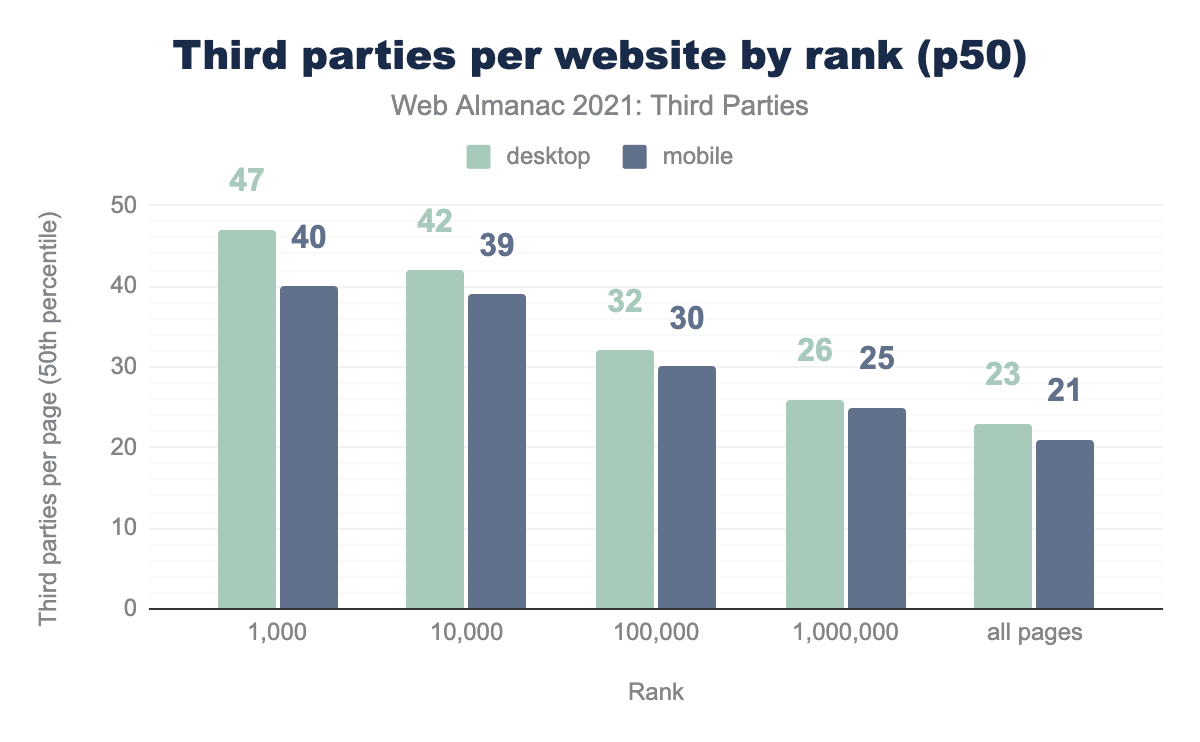
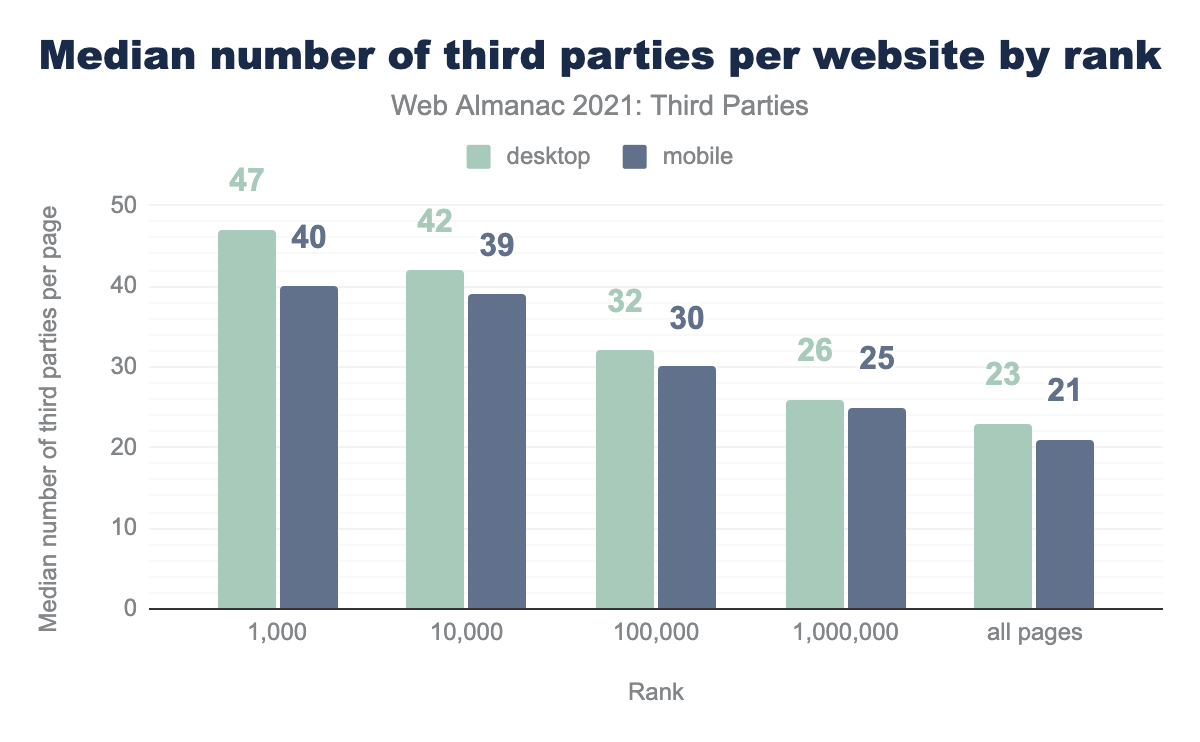
Review feedback from Patrick Hulce

Changed region(s): [[0.0308, 0.031, 0.9867, 0.124], [0.0308, 0.279, 0.0617, 0.8679]]

diff --git a/src/content/en/2021/third-parties.md b/src/content/en/2021/third-parties.md
@@ -3,7 +3,7 @@
 title: Third Parties
 description: TODO
 authors: [tunetheweb]
-reviewers: [patrickhulce, andydavies, csswizardry, housseindjirdeh]
+reviewers: [patrickhulce, csswizardry]
 analysts: [tunetheweb]
 editors: []
 translators: []
@@ -14,7 +14,7 @@ featured_quote: Third parties are integral to the web. In many ways they are the
 featured_stat_1: 94.40%
 featured_stat_label_1: Sites using third parties
 featured_stat_2: 1,625
-featured_stat_label_2: YouTube embed main thread blocking time
+featured_stat_label_2: YouTube embed main-thread blocking time
 featured_stat_3: 45.85%
 featured_stat_label_3: Requests which are 3rd party
 unedited: true
@@ -22,11 +22,11 @@ unedited: true
 
 ## Introduction
 
-Ah third parties - the solution to so many problems on the web… and cause of so many others! The web has fundamentally always been about interconnectivity and sharing. Using third-party content on a website is a natural extension of that and was first set into motion with the introduction of the [`<img>` element in HTML 2.0](https://www.w3.org/MarkUp/html-spec/html-spec_5.html#SEC5.10), we have been able to hyperlink external content straight into our documents. This has only grown with the introduction of [CSS](./css), and [JavaScript](./javascript) allowing part (or all!) of the page and site to be changed completely just by including a seemingly simple `<link>` or `<script>` element.
+Ah third parties - the solution to so many problems on the web… and cause of so many others! The web has fundamentally always been about interconnectivity and sharing. Using third-party content on a website is a natural extension of that and was first set into motion with the introduction of the [`<img>` element in HTML 2.0](https://www.w3.org/MarkUp/html-spec/html-spec_5.html#SEC5.10); we have been able to hyperlink external content straight into our documents ever since. This has only grown with the introduction of [CSS](./css), and [JavaScript](./javascript) allowing part (or all!) of the page and site to be changed completely just by including a seemingly simple `<link>` or `<script>` element.
 
 Third parties provide a never-ending collection of images, videos, fonts, tools, libraries, widgets, trackers, ads and anything else you can imagine to embed into our web pages. This enables even the most non-technical to be able to create and publish content to the web. Without third parties, the web would likely be a very boring, text-based, academic medium instead of the rich, immersive, complex platform that is so integral to the lives of many of us today.
 
-However, there is a dark side to using third party content on the web. An innocuous include of an image, or a helpful library, opens the floodgates of all sorts of [performance](./performance), [privacy](./performance), and [security](./security) implications that many do not consider fully. Speak to any professionals in those industries and they will lament the use of third-party content making their lives more difficult. This is surely only going to grow with performance getting extra attention through the likes of the [Core Web Vitals initiative from Google](https://web.dev/vitals/), and increased focus on privacy from governments and individuals alike, and the ever-present threat of exploitable vulnerabilities and malicious threats inherent to the web.
+However, there is a dark side to using third-party content on the web. An innocuous include of an image, or a helpful library, opens the floodgates of all sorts of [performance](./performance), [privacy](./performance), and [security](./security) implications that many do not consider fully. Speak to any professionals in those industries and they will lament the use of third-party content making their lives more difficult. Scrutiny is surely only going to grow with performance getting extra attention through the [Core Web Vitals initiative from Google](https://web.dev/vitals/), increased focus on privacy from governments and individuals, and the ever-increasing threat of exploitable vulnerabilities and malicious threats inherent to the web.
 
 In this chapter we're going to have a look at the state of third parties on the web: how much are we using them, what are we using them for, has our use changed over the last year given in particular the three concerns listed above? These are questions I'm looking to answer here.
 
@@ -53,7 +53,7 @@ Similarly, first-party content served from a third-party domain is counted as th
 
 ### Third-party categories
 
-This year we will, again, be drawing heavily on the [third-party-web repository](https://github.com/patrickhulce/third-party-web/blob/8afa2d8cadddec8f0db39e7d715c07e85fb0f8ec/data/entities.json5) from [Patrick Hulce](https://twitter.com/patrickhulce) to help us identify and categorize third parties. This repository categorizes commonly used third-party URLs into the following categories:
+This year we will, again, be drawing heavily on the [third-party-web repository](https://github.com/patrickhulce/third-party-web/blob/master/data/entities.js) from [Patrick Hulce](https://twitter.com/patrickhulce) to help us identify and categorize third parties. This repository categorizes commonly used third-party URLs into the following categories:
 - **Ad** - display and measurement of advertisements
 - **Analytics** - tracking site visitor behavior
 - **CDN** - providers that host public shared utilities or private content of their users
@@ -78,7 +78,7 @@ In reality this made very little difference to the numbers, but we feel it's a m
 - All data presented here is based on a non-interactive, cold load. These values could start to look quite different after user interaction.
 - The pages are tested from servers in the US with no cookies set, so third-parties requested after opt-in are not included. This will especially affect pages hosted and predominantly served to countries in scope for the [General Data Protection Regulation](https://en.wikipedia.org/wiki/General_Data_Protection_Regulation), or other similar legislation.
 - Only the home pages are tested. Other pages may have different third-party requirements.
-- Roughly 84% of all third-party domains by request volume have been identified and categorized. The remaining 16% fall into the _Other_ category.
+- Some of the lesser-used third-party domains are uncategorised into the _unknown_ category. As part of this analysis we submitted more categories for the top used domains to improve this data set.
 
 Learn more about our [methodology](./methodology).
 
@@ -109,7 +109,7 @@ chart_url="https://docs.google.com/spreadsheets/d/e/2PACX-1vTkT-CF5-NB7Oatd6XZq_
 
 Rerunning the last three Almanac years with the new, stricter definition, we see in the chart above that our usage of third parties on our website has grown slightly on last year by 0.2% on desktop and 0.4% on mobile.
 
-45.85% of requests on mobile and 45.09% of requests on desktop are third-party requests and this is similar to last year.
+45.85% of requests on mobile and 45.09% of requests on desktop are third-party requests, and this is similar to last year.
 
 {{ figure_markup(
   caption="Percentage of requests which are third-party.",
@@ -120,7 +120,7 @@ Rerunning the last three Almanac years with the new, stricter definition, we see
 )
 }}
 
-It would appear that the impact of privacy-preserving regulations like [GDPR](https://en.wikipedia.org/wiki/General_Data_Protection_Regulation) and [CCPA](https://en.wikipedia.org/wiki/California_Consumer_Privacy_Act) are not dampening our appetite for third-party usage. Though it should be remembered that our websites crawl from US locations and so may not be served GDPR-compliant websites.
+It would appear that the impact of privacy-preserving regulations like [GDPR](https://en.wikipedia.org/wiki/General_Data_Protection_Regulation) and [CCPA](https://en.wikipedia.org/wiki/California_Consumer_Privacy_Act) are not dampening our appetite for third-party usage. Though it should be remembered that our websites crawl from US data centers and so may be served different content because of that.
 
 So, we know nearly all sites use third parties, but how many do they use?
 
@@ -152,14 +152,14 @@ chart_url="https://docs.google.com/spreadsheets/d/e/2PACX-1vTkT-CF5-NB7Oatd6XZq_
   )
 }}
 
-This year we have access to the [CrUX "rank"](https://developers.google.com/web/updates/2021/03/crux-rank-magnitude) for each website—that is a popularity assignment for each site (e.g. top 1,000 most used site, top 10,000 most used site...etc.). Slicing the data by that shows that there is a slight decrease in third-party usage for the less popular websites, but it never dips below 93.28%, again reiterating that pretty much all websites love to include at least one third party.
+This year we have access to the [CrUX "rank"](https://developers.google.com/web/updates/2021/03/crux-rank-magnitude) for each website—that is a popularity assignment for each site which allows us to group our data into the top 1,000 most used sites, top 10,000 most used sites...etc. Slicing the data by this popularity rank shows that there is a slight decrease in third-party usage for the less popular websites, but it never dips below 93.28%, again reiterating that pretty much all websites love to include at least one third party.
 
 However, what does change is the number of third parties used by website:
 
 {{ figure_markup(
   image="third-parties-per-website-by-rank.png",
-  caption="Third parties per website by rank (50th percentile).",
-  description="Bar chart showing the number of third parties at the 50th percentile by desktop and mobile across various rankings. For the top 1,000 websites, 47 third parties are used on desktop and 40 on mobile, this drops to 42 and 39 respectively for the top 10,000 websites, to 32 and 30 for the top 100,000 websites, 26 and 25 for the top million websites, and 23 and 21 for all websites.",
+  caption="Median number of third parties per website by rank.",
+  description="Bar chart showing the median number of third parties per website by desktop and mobile across various rankings. For the top 1,000 websites, 47 third parties are used on desktop and 40 on mobile, this drops to 42 and 39 respectively for the top 10,000 websites, to 32 and 30 for the top 100,000 websites, 26 and 25 for the top million websites, and 23 and 21 for all websites.",
 chart_url="https://docs.google.com/spreadsheets/d/e/2PACX-1vTkT-CF5-NB7Oatd6XZq_08EoMGfiygKZtW4OwVivaaW3cIlt3ZcWNBtOdNePD_nKzkvb2nMlhWOX6g/pubchart?oid=1770094484&format=interactive",
   sheets_gid="1338630434",
   sql_file="number_of_third_parties_by_rank.sql"
@@ -187,9 +187,9 @@ Ads are the most common requests, followed by "unknown"—a collection of variou
 ### Third-party requests by type and rank
 
 {{ figure_markup(
-  image="third-parties-medium-third-party-requests-by-type-and-rank-on-mobile.png",
-  caption="Medium third-party requests by type and rank.",
-  description="Stacked bar chart showing the number of requests of each type by ranking. For the top 1,000 websites there are a medium of 20 `ad` third parties, 17 `unknown`, 9 `customer-success`, 3 `video`, 6 `social`, 5 `content`, 4 `cdn`, 5 `analytics`, 6 `consent-provider`, 3 `utility`, 2 `marketing`, 2 `other`, 2`tag-manager`, and 0 `advertising`. For the top 10,000 websites the medium values are 19, 12, 9, 4, 6, 5, 4, 5, 6, 4, 2, 2, 2, and 0. For the top 100,000 it's 13, 9, 10, 9, 6, 5, 5, 4, 4, 3, 3, 2, 2, and 2. For the top million it's 6, 7, 10, 11, 5, 5, 5, 3, 2, 3, 3, 2, 1, and 2. For all sites it's 4, 7, 9, 11, 5, 5, 5, 3, 1, 3, 3, 2, 1, and 2.",
+  image="third-parties-median-third-party-requests-by-type-and-rank-on-mobile.png",
+  caption="Median third-party requests by type and rank.",
+  description="Stacked bar chart showing the number of requests of each type by ranking. For the top 1,000 websites there are a median of 20 `ad` third parties, 17 `unknown`, 9 `customer-success`, 3 `video`, 6 `social`, 5 `content`, 4 `cdn`, 5 `analytics`, 6 `consent-provider`, 3 `utility`, 2 `marketing`, 2 `other`, 2`tag-manager`, and 0 `advertising`. For the top 10,000 websites the median values are 19, 12, 9, 4, 6, 5, 4, 5, 6, 4, 2, 2, 2, and 0. For the top 100,000 it's 13, 9, 10, 9, 6, 5, 5, 4, 4, 3, 3, 2, 2, and 2. For the top million it's 6, 7, 10, 11, 5, 5, 5, 3, 2, 3, 3, 2, 1, and 2. For all sites it's 4, 7, 9, 11, 5, 5, 5, 3, 1, 3, 3, 2, 1, and 2.",
 chart_url="https://docs.google.com/spreadsheets/d/e/2PACX-1vTkT-CF5-NB7Oatd6XZq_08EoMGfiygKZtW4OwVivaaW3cIlt3ZcWNBtOdNePD_nKzkvb2nMlhWOX6g/pubchart?oid=1542898751&format=interactive",
   sheets_gid="1430893885",
   sql_file="number_of_third_parties_by_rank_and_category.sql"
@@ -198,11 +198,11 @@ chart_url="https://docs.google.com/spreadsheets/d/e/2PACX-1vTkT-CF5-NB7Oatd6XZq_
 
 Splitting the requests by rank and category, we see the reason for the larger number of requests discussed previously. Ads are much more heavily used on the more popular sites.
 
-Note this chart shows the medium number of requests for each category, by rank, but not every category is used on every page, explaining why the totals per domain are much higher than the number of requests from the previous chart.
+Note this chart shows the median number of requests for each category, by rank, but not every category is used on every page, explaining why the totals per domain are much higher than the number of requests from the previous chart.
 
 ## Content types
 
-Related to the categories, let's see what type of content we're getting back from all those third-party requests.
+Taking an alternative view on the data, let's see what type of content we're getting back from all those third-party requests.
 
 {{ figure_markup(
   image="third-parties-usage-by-content-type.png",
@@ -214,7 +214,7 @@ chart_url="https://docs.google.com/spreadsheets/d/e/2PACX-1vTkT-CF5-NB7Oatd6XZq_
   )
 }}
 
-JavaScript, images, and HTML mostly it seems. To be honest there aren't many surprises here. JavaScript is used by most third parties to add functionality (whether that be in ads, trackers, libraries, or whatever). Similarly, the high usage of images is to be expected, as they will include the 1-pixel blank images so beloved of tracking solutions.
+Unsurprisingly, JavaScript, images, and HTML comprise the majority of third-party requests. JavaScript is used by most third parties to add functionality (whether that be in ads, trackers, libraries, or whatever). Similarly, the high usage of images is to be expected, as they will include the 1-pixel blank images so beloved of tracking solutions.
 
 The high usage of HTML surprised me initially (surely documents would be the prevalent form of HTML and they would be first-party requests?), but investigation showed them mostly to be iframes which makes much more sense as they are often used to house ads, or other widgets (e.g. YouTube serves an HTML document in an iframe including the player, rather than just the video itself).
 
@@ -262,23 +262,31 @@ chart_url="https://docs.google.com/spreadsheets/d/e/2PACX-1vTkT-CF5-NB7Oatd6XZq_
   )
 }}
 
-Google takes 8 of the top 15 most used third parties — including the top six spots! — and has no one even close. Google are market leaders in Analytics, Fonts, Ads, Accounts, Tag Managers, and Video to name but a few. A staggering 62.69% of mobile websites use Google Analytics, and almost as many use Google Fonts, with Ads, Accounts and Tag Manager usage not far behind in the 42% - 49 % range.
+Google takes 8 of the top 15 most used third parties—including the top six spots!—and has no else comes close. Google is a market leader in Analytics, Fonts, Ads, Accounts, Tag Managers, and Video to name but a few. A staggering 62.69% of mobile websites use Google Analytics, and almost as many use Google Fonts, with Ads, Accounts and Tag Manager usage not far behind in the 42% - 49 % range.
 
-The first non-Google entity is Facebook with a comparatively low usage of 29.18%. This is followed by Cloudflare's CDN fronting popular libraries and other resources (despite being listed as amp.cloudflare.com it also includes the much larger cdnjs.cloudflare.com).
+The first non-Google entity is Facebook with a comparatively low usage of 29.18%. This is followed by Cloudflare's CDN fronting popular libraries and other resources (despite being listed as amp.cloudflare.com it also includes the much larger cdnjs.cloudflare–this has been updated to show the more commonly used domain for next year).
 
 After this we're back to Google with YouTube, and Maps two spots later. The remaining spots are filled with CDNs for other popular libraries and tools.
 
 ## Performance impact of third parties
 
-It's difficult to definitely explain the performance impact of third parties on websites. There is no clear-cut answer as to whether using a third party is good or bad. While there are certainly impacts on needlessly loading up your website with every third-party tool, widget, tracker and whatever else you can think of, that's also true of first-party content. Bloat is bad, wherever it comes from and blaming third parties for making it too easy for websites to add, is perhaps pointing the finger at the wrong party here!
+It's difficult to definitely explain the performance impact of third parties on websites. While there are certainly impacts on needlessly loading up your website with every third-party tool, widget, tracker and whatever else you can think of, that's also true of first-party content. Bloat is bad, wherever it comes from, and blaming third parties for making it too easy for websites to add, is perhaps pointing the finger at the wrong party here! Site owners have a responsibility to look at the impact of all that third-party content and decide if the functionality is worth the potential performance impact. Saying that, as a third party’s business is in allowing their content or service to be hosted on many websites, they have a duty too to ensure they minimise the negative impact of that.
 
-There is a definite cost to connecting to another domain, even though most third parties will be using a globally distributed, high performance CDN and many web performance advocates (including myself!) recommend self-hosting where possible to avoid this penalty. This is particularly relevant now that all the major browsers have moved away from sharing caches between pages, so the claim that once one site has downloaded that resource, others can benefit from it is no longer true. Though this was a questionable claim even in the past in this author's opinion given the number of versions of libraries, and limitations of the HTTP cache.
+### Using third-party domains versus self-hosting
 
-Saying that, rarely is life as definitive as we would like and, in some cases self-hosting may actually cost performance. I've [written before how the question on whether to self-host Google Fonts](https://www.tunetheweb.com/blog/should-you-self-host-google-fonts/) is not as clear cut as it might seem and requires a degree of expertise to ensure you are replicating all that Google Fonts does for you in the performance front. Similarly, image CDNs can optimize media better than most and, more importantly, can do this automatically without the need of manual steps that will inevitably be skipped or done incorrectly on occasion.
+There is a definite cost to connecting to another domain, even though most third parties will be using globally distributed, high-performance CDNs, and many web performance advocates (including myself!) recommend self-hosting where possible to avoid this penalty. This is particularly relevant now that all the major browsers have moved away from sharing caches between origins, so the claim that once one site has downloaded that resource, others can benefit from it is no longer true. Though this was a questionable claim even in the past in this author's opinion given the number of versions of libraries, and limitations of the HTTP cache.
+
+Saying that, rarely is life as definitive as we would like and, in some cases self-hosting may actually cost performance. I've [written before how the question on whether to self-host Google Fonts](https://www.tunetheweb.com/blog/should-you-self-host-google-fonts/) is not as clear cut as it might seem and requires a degree of expertise to ensure you are replicating all that Google Fonts does for you in the performance front. To avoid that hassle you can just use the hosted version, and ensure you're [reducing the performance impact as much as possible](https://csswizardry.com/2020/05/the-fastest-google-fonts/).
+
+Similarly, image CDNs can optimize media better than most and, more importantly, can do this automatically without the need of manual steps that will inevitably be skipped or done incorrectly on occasion.
+
+So it's not the fact they are third-party resources, so much as what those resources are doing. And most third-party usage depends on the third-party service, rather than just as a place to serve it from.
+
+### Popular third parties embeds and their performance impact
 
 To try to investigate the performance impact of third parties, we will instead look at some of the most popular third-party embeds as some have a bad name in web performance circles so let's see if the bad reputation is really deserved. To do that we'll be making use of two Lighthouse audits: [Eliminate render blocking resources](https://web.dev/render-blocking-resources/) and [Reduce the impact of third-party code](https://web.dev/third-party-summary/), based on some [similar research](https://docs.google.com/spreadsheets/d/1Td-4qFjuBzxp8af_if5iBC0Lkqm_OROb7_2OcbxrU_g/edit?usp=sharing&resourcekey=0-ZCfve5cngWxF0-sv5pLRzg) by [Houssein Djirdeh](https://twitter.com/hdjirdeh).
 
-### Popular third parties and their impact on render
+#### Popular third parties and their impact on render
 
 To investigate this, we use the Lighthouse render-blocking resources audit, and limit it just to third-party resources, by linking up to the third-party web resources library.
 
@@ -296,17 +304,17 @@ chart_url="https://docs.google.com/spreadsheets/d/e/2PACX-1vTkT-CF5-NB7Oatd6XZq_
 
 The top 15 most popular third parties are shown above and for what percentage of resources they block the initial render of the page.
 
-On the whole this is a positive store—most do not block rendering, and those that do are for common libraries associated with layout (e.g. bootstrap) or fonts that perhaps should block initial render (don't try to persuade me that using `font-display: swap` or `optional` is a good thing, cause [I don't agree!](https://twitter.com/tunetheweb/status/1364278446311043073)).
+On the whole this is a positive story—most do not block rendering, and those that do are for common libraries associated with layout (e.g. bootstrap) or fonts that perhaps should block initial render ([I personally don't agree that using `font-display: swap` or `optional` is a good thing](https://twitter.com/tunetheweb/status/1364278446311043073)).
 
 Often third-party embeds advise using `async` or `defer` with the specific aim of avoiding being render-blocking, and it looks like this might be the case for many of them.
 
-### Popular third parties and their impact on main thread
+#### Popular third parties and their impact on main thread
 
-Looking at main thread blocking, it also doesn't look too bad:
+Looking at main-thread blocking, it also doesn't look too bad:
 
 {{ figure_markup(
   image="third-parties-popular-third-parties-main-thread-impact.png",
-  caption="Top 15 third parties main thread impact.",
+  caption="Top 15 third parties impact on the main thread.",
   description="Bar chart showing the percentage of third-party usage which blocks the main thread for the top 15 third parties. Google Analytics is render blocking on 9.95% of pages that used it, Google Fonts is 0.01%, Google/Doubleclick Ads is 20.00%, Other Google APIs/SDKs is 13.12%, Google Tag Manager is 11.53%, Google CDN is 30.85%, Facebook is 24.94%, Cloudflare CDN is 6.07%, YouTube is 69.74%, Bootstrap CDN is 0.01%, Google Maps is 50.45%, JSDelivr CDN is 8.48%, jQuery CDN is 15.15%, FontAwesome CDN is 0.79%, Adobe Tag Manager is 6.93%",
 chart_url="https://docs.google.com/spreadsheets/d/e/2PACX-1vTkT-CF5-NB7Oatd6XZq_08EoMGfiygKZtW4OwVivaaW3cIlt3ZcWNBtOdNePD_nKzkvb2nMlhWOX6g/pubchart?oid=1466249466&format=interactive",
   width=600,
@@ -316,12 +324,12 @@ chart_url="https://docs.google.com/spreadsheets/d/e/2PACX-1vTkT-CF5-NB7Oatd6XZq_
   )
 }}
 
-Here blocking is defined as more than 250 milliseconds of main thread usage. More important than how often they block the main thread, is how long for?
+Here blocking is defined as [more than 250 milliseconds of main-thread usage](https://web.dev/third-party-summary/#how-the-lighthouse-audit-for-third-party-code-fails). More important than how often they block the main thread, is how long for?
 
 {{ figure_markup(
   image="third-parties-popular-third-parties-main-thread-blocking-time.png",
-  caption="Top 15 third parties main thread blocking time.",
-  description="Bar chart showing main thread blocking times on mobile for the most popular third parties.",
+  caption="Top 15 third parties median main-thread blocking time.",
+  description="Bar chart showing median main-thread blocking times on mobile for the most popular third parties.",
 chart_url="https://docs.google.com/spreadsheets/d/e/2PACX-1vTkT-CF5-NB7Oatd6XZq_08EoMGfiygKZtW4OwVivaaW3cIlt3ZcWNBtOdNePD_nKzkvb2nMlhWOX6g/pubchart?oid=973901251&format=interactive",
   sheets_gid="329121076",
   width=600,
@@ -332,7 +340,7 @@ chart_url="https://docs.google.com/spreadsheets/d/e/2PACX-1vTkT-CF5-NB7Oatd6XZq_
 
 Here we see YouTube sticking out like a sore thumb so let's delve into that a little more:
 
-#### YouTube
+##### YouTube
 
 {{ figure_markup(
   image="third-parties-youtube-main-thread-impact.png",
@@ -344,11 +352,11 @@ chart_url="https://docs.google.com/spreadsheets/d/e/2PACX-1vTkT-CF5-NB7Oatd6XZq_
   )
 }}
 
-We can see a huge impact of 1.63 seconds of main thread activity at the median (50th percentile), rising to a shocking 4.55 seconds of main thread blocking at the 90th percentile (still meaning 10% of websites have a worse impact than even that!). It's also apparent that the impact increases with transfer size - perhaps not surprising as higher quality videos are going to impact the main thread more. And remember that our crawl does not interact with these videos, so these are either auto-playing videos, or the YouTube player itself causing all this use.
+We can see a huge impact of 1.63 seconds of main-thread activity at the median (50th percentile), rising to a shocking 4.55 seconds of main-thread blocking at the 90th percentile (still meaning 10% of websites have a worse impact than even that!). It's also apparent that the impact increases with transfer size–perhaps not surprising as there is more to process. And remember that our crawl does not interact with these videos, so these are either auto-playing videos, or the YouTube player itself causing all this use.
 
 Let's dig a little deeper, into the other third party embeds on our list (note we switch to milliseconds rather than seconds on the remaining charts).
 
-#### Google Analytics
+##### Google Analytics
 
 {{ figure_markup(
   image="third-parties-google-analytics-main-thread-impact.png",
@@ -362,7 +370,7 @@ chart_url="https://docs.google.com/spreadsheets/d/e/2PACX-1vTkT-CF5-NB7Oatd6XZq_
 
 Google Analytics is pretty good, so obviously a lot of work has gone into optimizing this, given all that it tracks.
 
-#### Google/Doubleclick Ads
+##### Google/Doubleclick Ads
 
 {{ figure_markup(
   image="third-parties-google-doubleclick-ads-main-thread-impact.png",
@@ -376,7 +384,7 @@ chart_url="https://docs.google.com/spreadsheets/d/e/2PACX-1vTkT-CF5-NB7Oatd6XZq_
 
 Google Ads was doing so well, until we hit the 90th percentile, when it got blown off the chart. Again, a reminder that this means 10% of websites have worse numbers than these.
 
-#### Google Tag Manager
+##### Google Tag Manager
 
 {{ figure_markup(
   image="third-parties-google-tag-manager-main-thread-impact.png",
@@ -390,7 +398,7 @@ chart_url="https://docs.google.com/spreadsheets/d/e/2PACX-1vTkT-CF5-NB7Oatd6XZq_
 
 Google Tag Manager fares much better than I thought it would to be honest. I've seen some horrific GTM implementations overloaded with old tags and triggers that are no longer used. But GTM seems to do well at not blocking the main thread for too long in our test page loads.
 
-#### Facebook
+##### Facebook
 
 {{ figure_markup(
   image="third-parties-facebook-main-thread-impact.png",
@@ -404,7 +412,7 @@ chart_url="https://docs.google.com/spreadsheets/d/e/2PACX-1vTkT-CF5-NB7Oatd6XZq_
 
 Facebook also isn't as resource intensive as I thought it would be. Facebook embeds of posts seems to be less popular than Twitter embeds so these will likely be Facebook retargeting trackers—which should be working silently in the background and not impacting the main thread at all, so it's apparent there is still more work for Facebook to do here. I've even had good success in [not using the Facebook JavaScript API and using pixel tracking through Google Tag Manager](https://www.tunetheweb.com/blog/adding-controls-to-google-tag-manager/#pixels) without losing any functionality, and would encourage others to consider this option.
 
-#### Google Maps
+##### Google Maps
 
 {{ figure_markup(
   image="third-parties-google-maps-main-thread-impact.png",
@@ -418,7 +426,7 @@ chart_url="https://docs.google.com/spreadsheets/d/e/2PACX-1vTkT-CF5-NB7Oatd6XZq_
 
 Google Maps definitely needs some improvement. Especially as it's often present as a small extra piece on a page, rather than the main content.
 
-#### Twitter
+##### Twitter
 
 And finally, I wanted to look at one further down the list: Twitter.
 
@@ -432,11 +440,11 @@ chart_url="https://docs.google.com/spreadsheets/d/e/2PACX-1vTkT-CF5-NB7Oatd6XZq_
   )
 }}
 
-Twitter as a third-party can be used in one of two ways: as a retargeting advertising tracker, and as a way of embedding tweets. Embedding tweets in pages is more popular than other social networks in my experience but has been [called out by many in the web performance community](https://nooshu.com/blog/2021/02/06/using-puppeteer-and-squoosh-to-fix-twitter-embeds/) as being pretty terrible for performance and our analysis above backs that up. Especially as those use cases will be being diluted with the (presumably lighter), tracking use case in the above graph.
+Twitter as a third-party can be used in one of two ways: as a retargeting advertising tracker, and as a way of embedding tweets. Embedding tweets in pages is more popular than other social networks in my experience but has been [called out by many in the web performance community](https://nooshu.com/blog/2021/02/06/using-puppeteer-and-squoosh-to-fix-twitter-embeds/) as being pretty terrible for performance and our analysis above backs that up. Especially as those use cases will be diluted with the (presumably lighter) tracking use case in the above graph.
 
-While some of the above examples fare better or worse, it must be remembered that it's the cumulative effect of these which really impact the performance of a website. It's rare for websites to only use one of these so add together Google Analytics, GTM loading Facebook and Twitter Tracking, on a page with a Map and an embedded Tweet and you'll begin to understand why your phone sometimes feels too hot to handle, or your PC fan starts going into overdrive just from surfing the web!
+While some of the above examples fare better or worse, it must be remembered that it's the cumulative effect of these which really impact the performance of a website. It's rare for websites to only use one of these, so add together Google Analytics, GTM loading Facebook and Twitter Tracking, on a page with a Map and an embedded Tweet, and it really starts to add up. Sometimes it's unsurprising why your phone sometimes feels too hot to handle, or your PC fan starts going into overdrive just from surfing the web!
 
-All this shows why the Google Developers recommend [reducing the impact of embeds](https://web.dev/embed-best-practices/) (mostly their own ironically!), through the use of document ordering, lazy loading, facades, and other techniques. However, it's really quite infuriating that some of these are not the default and that advanced techniques like these must fall on the responsibility of the website owner. The third parties highlighted here really do have the resources, and technical know-how to reduce the impact of using their products for everyone by default but often choose not to.
+All this shows why the Google Developers recommend [reducing the impact of embeds](https://web.dev/embed-best-practices/) (mostly their own ironically!), through the use of document ordering, lazy loading, facades, and other techniques. However, it's really quite infuriating that some of these are not the default and that advanced techniques like these must fall on the responsibility of the website owner. The third parties highlighted here really do have the resources, and technical know-how to reduce the impact of using their products for everyone by default but often choose not to. I started this performance section by saying that using third parties wasn't necessarily bad for performance, but these examples show there is certainly more that some of them can do in this area!
 
 Hopefully highlighting some of these well-known examples will cause readers to investigate the impact of third-party embeds on their own sites and ask themselves if they really are all worth it? Perhaps if we make this subject more important to the third parties, they will prioritize performance.
 
@@ -454,7 +462,7 @@ chart_url="https://docs.google.com/spreadsheets/d/e/2PACX-1vTkT-CF5-NB7Oatd6XZq_
   )
 }}
 
-Looking at the usage over the last three Web Almanac years usage has dropped considerably this year, instead of increasing. Which is disappointing from a transparency and analysis perspective. Digging deeper into the data showed a 33% drop in Facebook requests and, as they supported this header and are widely used, this explains most of this drop. Interestingly the number of pages with Facebook usage actually increased, but it looks like Facebook have changed their embed to make less requests in the last year and, given their prevalence, that's made quite a dent on the usage of timing-allow-origin header. Ignoring that, usage of this header has basically stayed stable—which is a bit disappointing given the focus on performance with [the ranking impact of the Core Web Vitals](https://developers.google.com/search/blog/2020/11/timing-for-page-experience).
+Looking at the usage over the last three Web Almanac years usage has dropped considerably this year, instead of increasing, which is disappointing from a transparency and analysis perspective. Digging deeper into the data showed a 33% drop in Facebook requests and, as they supported this header and are widely used, this explains most of this drop. Interestingly the number of pages with Facebook usage actually increased, but it looks like Facebook have changed their embed to make fewer requests in the last year and, given their prevalence, that's made quite a dent on the usage of timing-allow-origin header. Ignoring that, usage of this header has basically stayed stable—which is a bit disappointing given the focus on performance with [the ranking impact of the Core Web Vitals](https://developers.google.com/search/blog/2020/11/timing-for-page-experience).
 
 ## Security and Privacy
 
@@ -464,9 +472,9 @@ Measuring the security and privacy impact of using third parties is more difficu
 
 Sites themselves can reduce the risk of using third parties in a number of ways. [Restricting access to cookies](https://developer.mozilla.org/en-US/docs/Web/HTTP/Cookies#restrict_access_to_cookies) with the `HttpOnly` attribute, so they can not be accessed by JavaScript, and through appropriate use of SameSite attributes. These are explored more in the [Security chapter](./security) so will not delve further into them here.
 
-Another security feature that can be used when making use of third-party resources is through the use of [Subresource Integrity](https://developer.mozilla.org/en-US/docs/Web/Security/Subresource_Integrity) (SRI) which is enabled by adding a cryptographic hash of a resource to the `<link>` or `<script>` element loading the resource. This hash is then checked by the browser to ensure that the content downloaded is exactly what is expected. However, the varying nature of third-party resources could mean this introduces more risks than it solves with sites breaking when resources are intentionally updated by the third party And if content really is static, then it can be self-hosted removing the need of SRI. So this author remains unconvinced that it really offers the security benefits that proponents claim.
+Another security feature that can be used when making use of third-party resources is through the use of [Subresource Integrity](https://developer.mozilla.org/en-US/docs/Web/Security/Subresource_Integrity) (SRI) which is enabled by adding a cryptographic hash of a resource to the `<link>` or `<script>` element loading the resource. This hash is then checked by the browser to ensure that the content downloaded is exactly what is expected. However, the varying nature of third-party resources could mean this introduces more risks than it solves with sites breaking when resources are intentionally updated by the third party And if content really is static, then it can be self-hosted removing the need of SRI. So, while many recomment SRI, this author remains unconvinced that it really offers the security benefits that proponents claim.
 
-One of the best ways sites can reduce the security risk of any third-party content coming onto their site—from either third-party resource use, or even user-entered content—is with a robust [Content Security Policy](https://developer.mozilla.org/en-US/docs/Web/HTTP/CSP) (CSP). This is an HTTP Header setting sent with the original website that tells the browser exactly what resources can and cannot be loaded and by whole. It is a more-advanced technique that not many sites use, according to the [Security chapter](./security), and we'll leave that chapter to analyse their usage but what is worth covering here is that one of the reasons for the lack of uptake, may be third parties. Very few third parties publish CSP information with the exact requirements that sites must add to their policy to use the third party without issue. Worse still is that others are incompatible with a secure CSP using inline script elements, or changing domains without notification, breaking that functionality for sites adding this security, until they update their policy. Google Ads is another example which, [through the use of a different domain per country makes it difficult to really lock down CSP](https://stackoverflow.com/questions/34361383/google-adwords-csp-content-security-policy-img-src).
+One of the best ways sites can reduce the security risk of any third-party content coming onto their site—from either third-party resource use, or even user-entered content—is with a robust [Content Security Policy](https://developer.mozilla.org/en-US/docs/Web/HTTP/CSP) (CSP). This is an HTTP Header setting sent with the original website that tells the browser exactly what resources can and cannot be loaded and by whom. It is a more advanced technique that not many sites use, according to the [Security chapter](./security), and we'll leave that chapter to analyse their usage, but what _is_ worth covering here is that one of the reasons for the lack of uptake, may be third parties. In this author's experience, very few third parties publish CSP information with the exact requirements that sites must add to their policy to use the third party without issue. Worse still is that others are incompatible with a secure CSP using inline script elements, or changing domains without notification, breaking that functionality for sites adding this security, until they update their policy. Google Ads is another example which, [through the use of a different domain per country makes it difficult to really lock down CSP](https://stackoverflow.com/questions/34361383/google-adwords-csp-content-security-policy-img-src).
 
 It is difficult enough to set up CSP in the first place for the parts of the site in your control, without the added complexity of third parties making it even more difficult for things outside your control! Third parties really should get better at supporting CSP to make it easier for sites to reduce the risk of using them.
 
@@ -481,12 +489,12 @@ Of course, one of the major reasons for using third parties on your site is for 
 
 What is perhaps more concerning is the tracking that can occur without website users and owners being aware. There is the old adage that if you're not paying for a product or service, then you are the product, and many third parties give away their product for "free", which for most means they are monetizing it in some other way—usually at the expense of your visitor's privacy!
 
-Use of newer technologies like [`feature-policy` and `permission-policy`](https://developer.mozilla.org/en-US/docs/Web/HTTP/Headers/Feature-Policy) can restrict the usage of certain functionalities of the browser such as microphones and video cameras, which can at least reduce the privacy and security risks, but it still seems to be swimming against the tide given the intent of many third party resources.
+Use of newer technologies like [`feature-policy` and `permission-policy`](https://developer.mozilla.org/en-US/docs/Web/HTTP/Headers/Feature-Policy) can restrict the usage of certain functionalities of the browser such as microphones and video cameras. These can reduce the privacy and security risks though many of these will usually be secured behind a browser prompt to ensure they are not silently activated. Google is also working on a [Privacy Budget proposal](https://github.com/bslassey/privacy-budget) to limit the privacy impact of web browser, though others [remain sceptical of their work in this space](https://blog.mozilla.org/en/mozilla/google-privacy-budget-analysis/). All in all, adding privacy controls seems to be swimming against the tide given the intent of many third party resources.
 
 ## Conclusion
 
-Third parties are integral to the web. In many ways they are the web—without the prevalence of third-parties websites would be harder to build, and be less feature rich. As mentioned at the beginning, interconnectedness is at the very heart of the web, and third parties are the natural extension of this. Our analysis has shown that third parties are more prevalent than ever: sites without them are very much the exception!
+Third parties are integral to the web. In many ways they are the web—without the prevalence of third parties, websites would be harder to build, and be less feature rich. As mentioned at the beginning, interconnectedness is at the very heart of the web, and third parties are the natural extension of this. Our analysis has shown that third parties are more prevalent than ever: sites without them are very much the exception!
 
-However, using third parties is not without risks and in this chapter we have explored the performance impact of third parties and, without analysing, discussed the potential security and privacy risks of using them on your site.
+However, using third parties is not without risks and in this chapter we have explored the performance impact of third parties and discussed the potential security and privacy risks of using them on your site.
 
 It's easy to get sucked into the negative however, so to finish off the chapter, I wish to circle back round to the positives. There is a reason that third parties are so prevalent and they are (usually!) used out of choice. Sharing is what the web is about and so third parties are very much in the spirit of the web.
